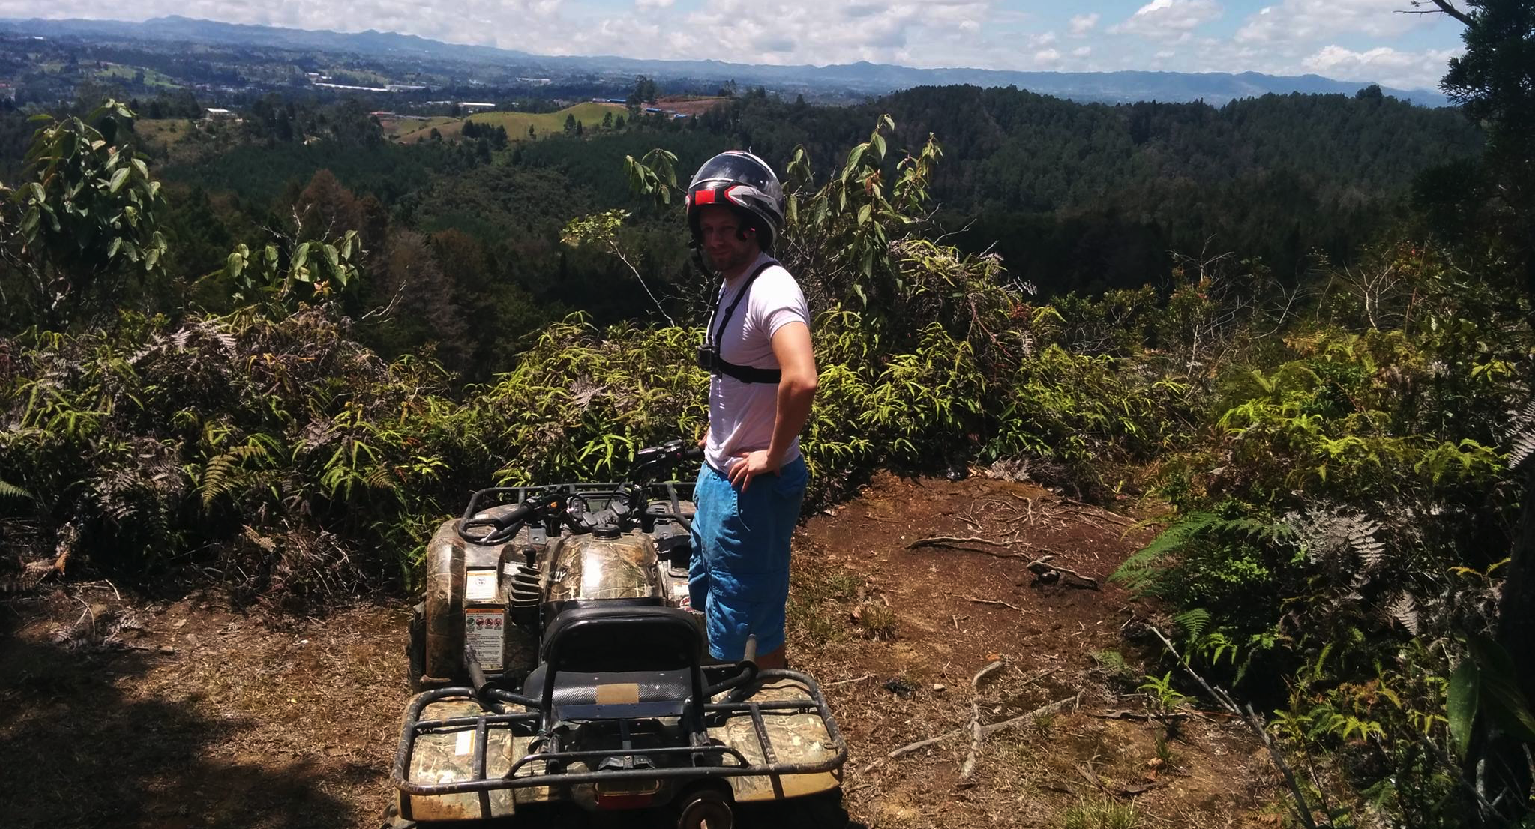
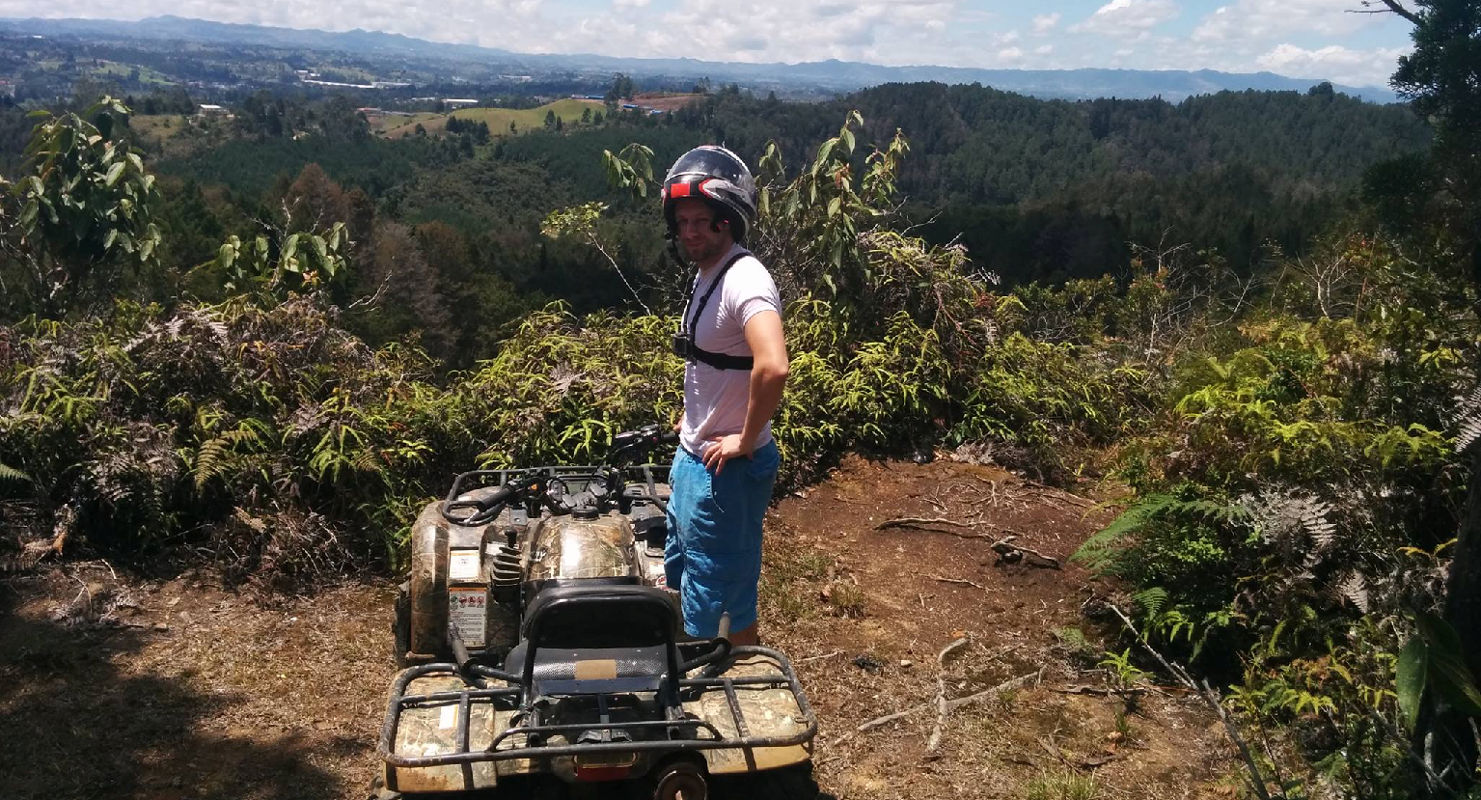
Added linked in and compressed main image

diff --git a/_includes/footer.html b/_includes/footer.html
@@ -37,6 +37,16 @@
         </a>
       </span>
             {% endif %}
+
+
+            {% if site.linkedin_username %}
+      <span>
+        <a class="header-link" href="https://www.linkedin.com/in/{{ site.linkedin_username }}"  target="_blank">
+            <i class="fa fa-2x fa-linkedin-square "></i>
+        </a>
+      </span>
+            {% endif %}
+
         </div>
 
     </div>
